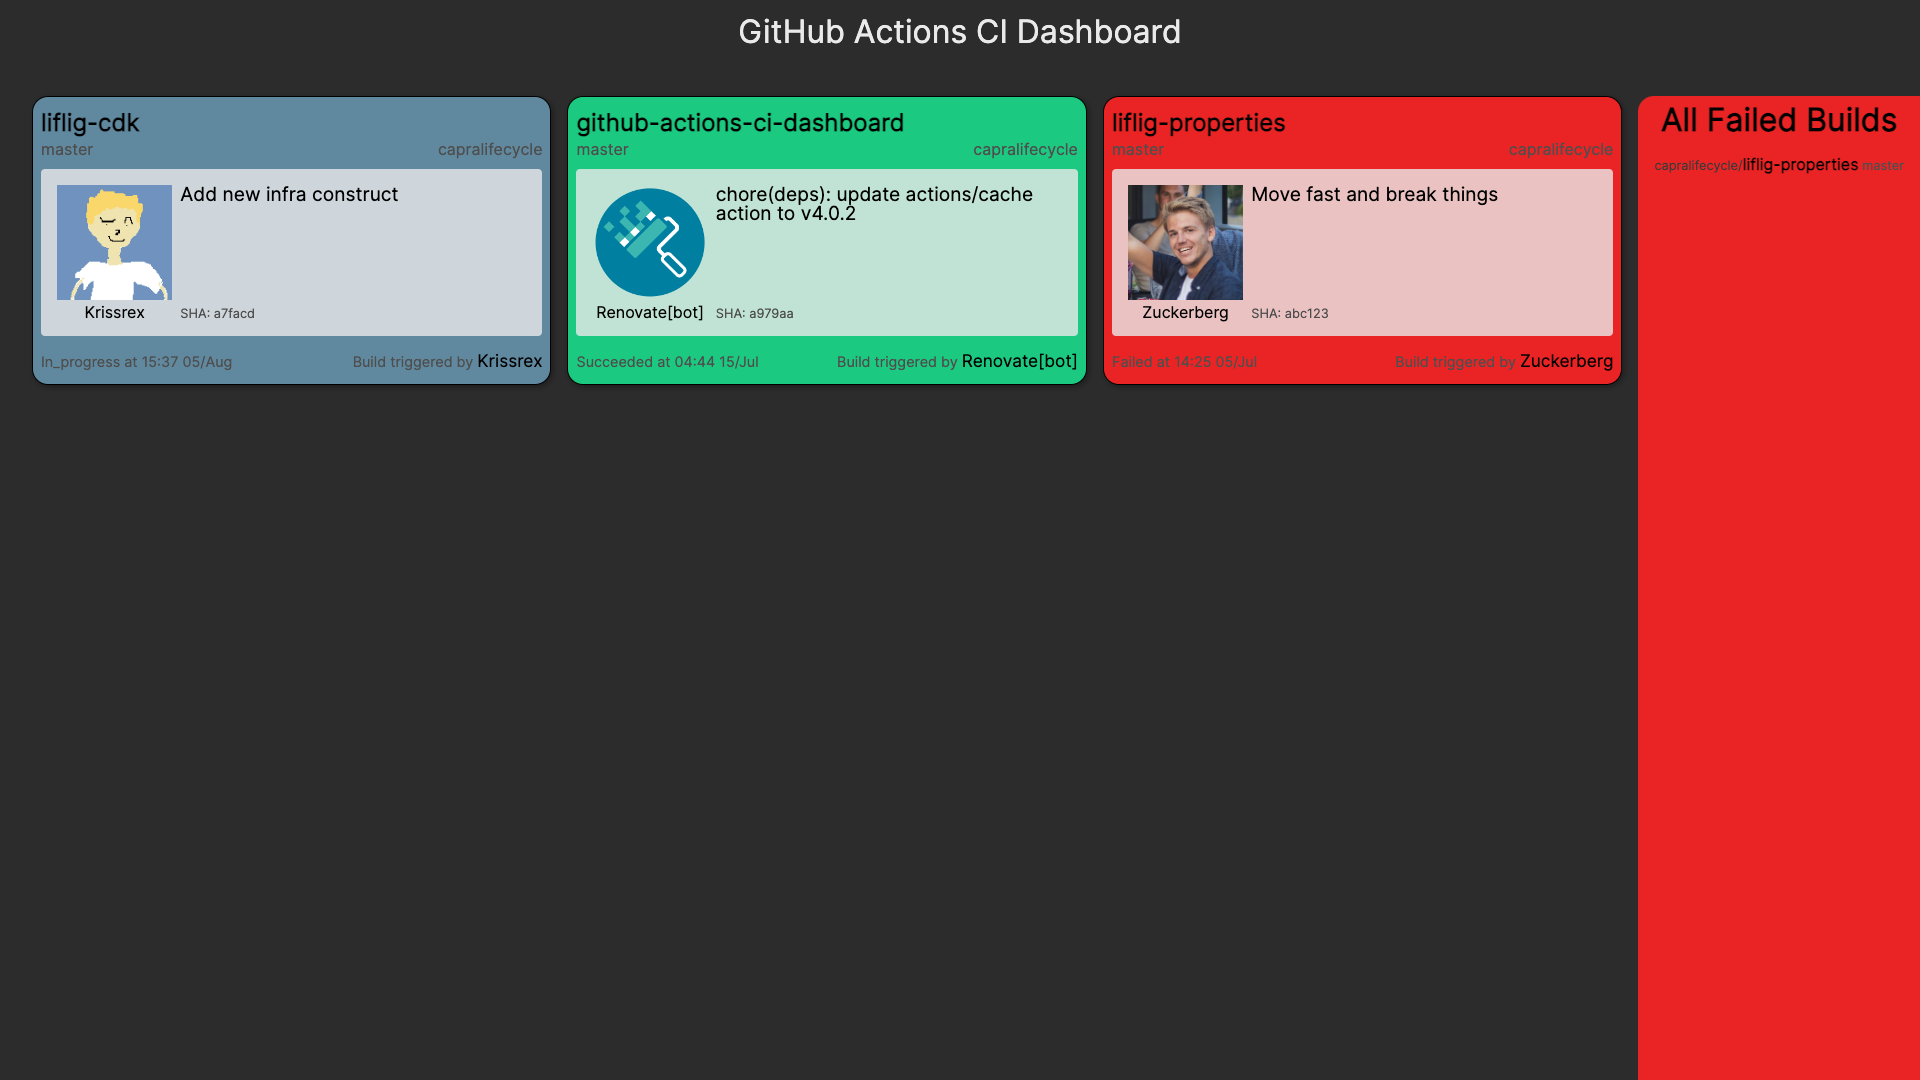
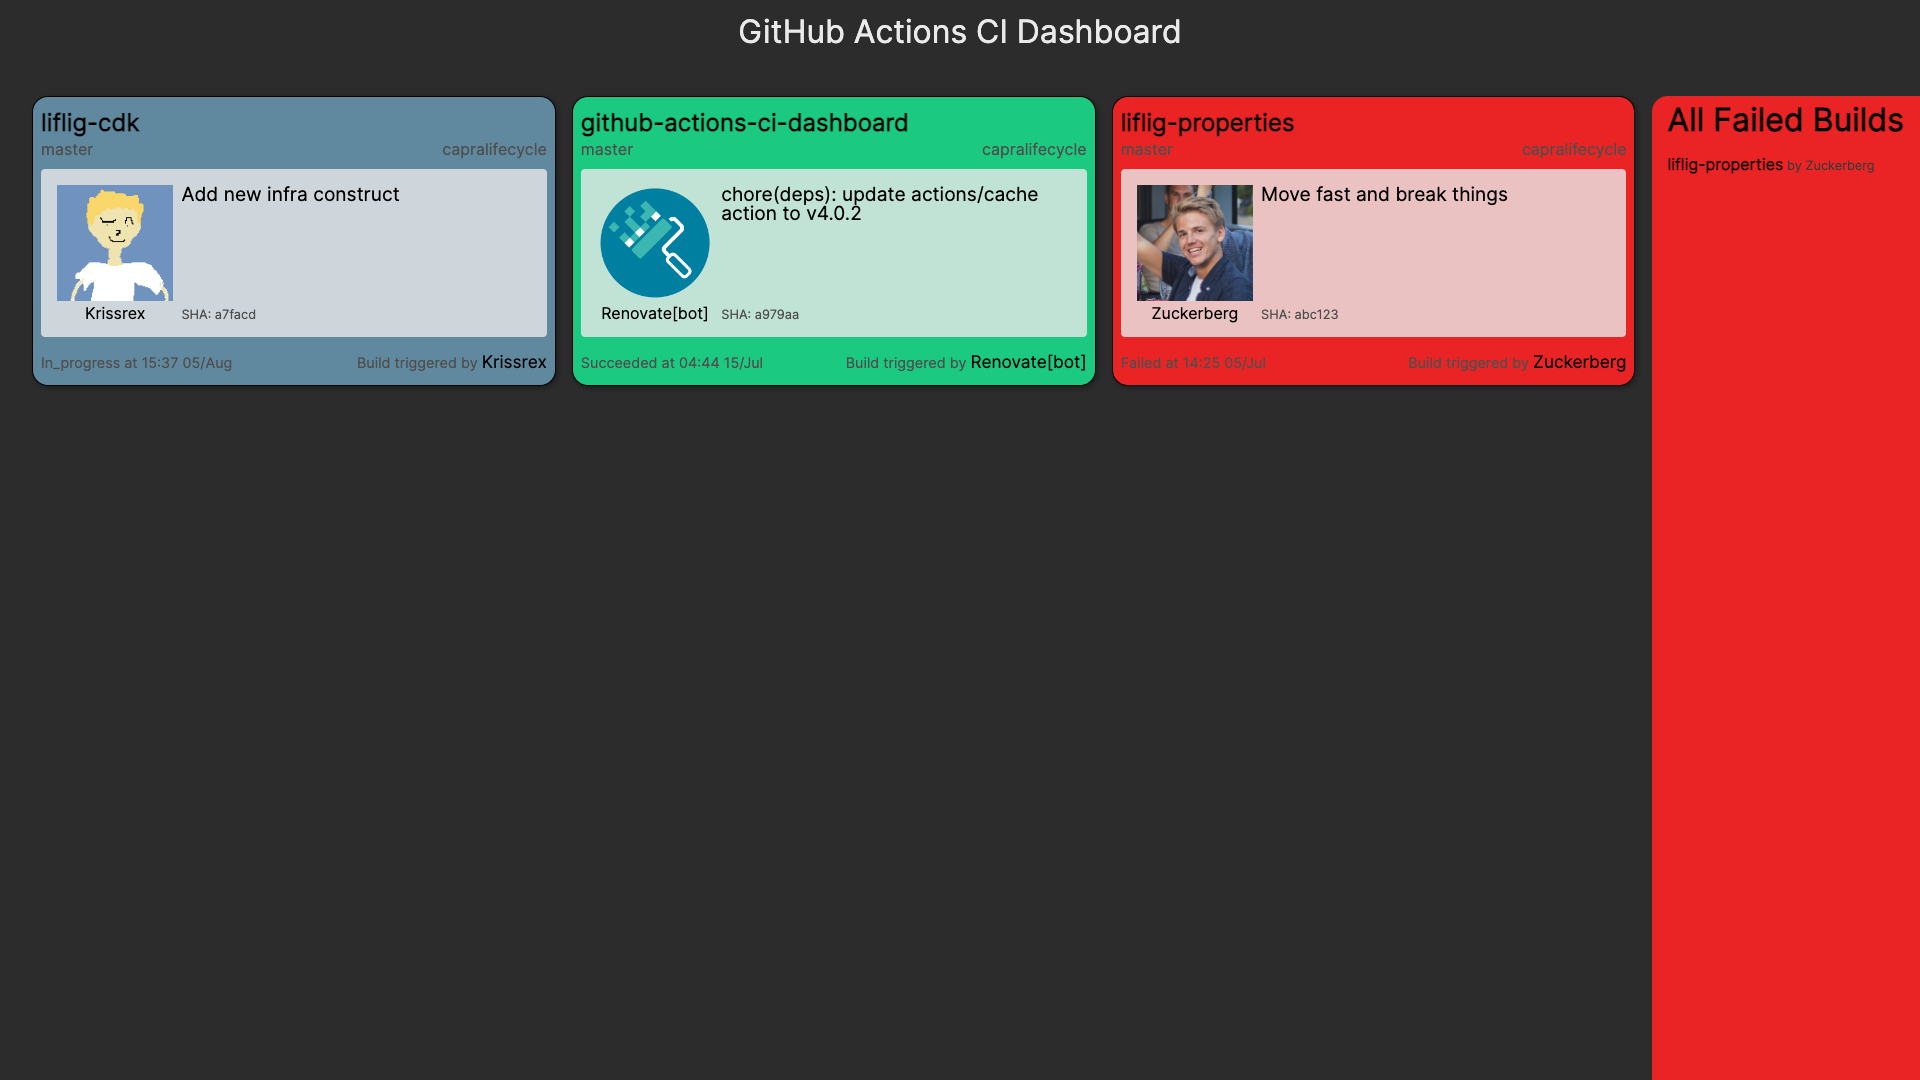
Show username in failed builds instead of owner and branch

diff --git a/src/test/resources/__snapshots__/dashboard-updates-endpoint/updates.html b/src/test/resources/__snapshots__/dashboard-updates-endpoint/updates.html
@@ -60,8 +60,7 @@
     <h2 class="failed-builds__title">All Failed Builds</h2>
     <ul class="failed-builds__list">
         <li class="failed-build failed-builds__failed-build"><span
-          class="failed-build__owner">my-orgname/</span><span
           class="failed-build__repo">repo-c</span><span
-          class="failed-build__branch"> master</span></li>
+          class="failed-build__commiter"> by Krissrex</span></li>
     </ul>
   </div>
